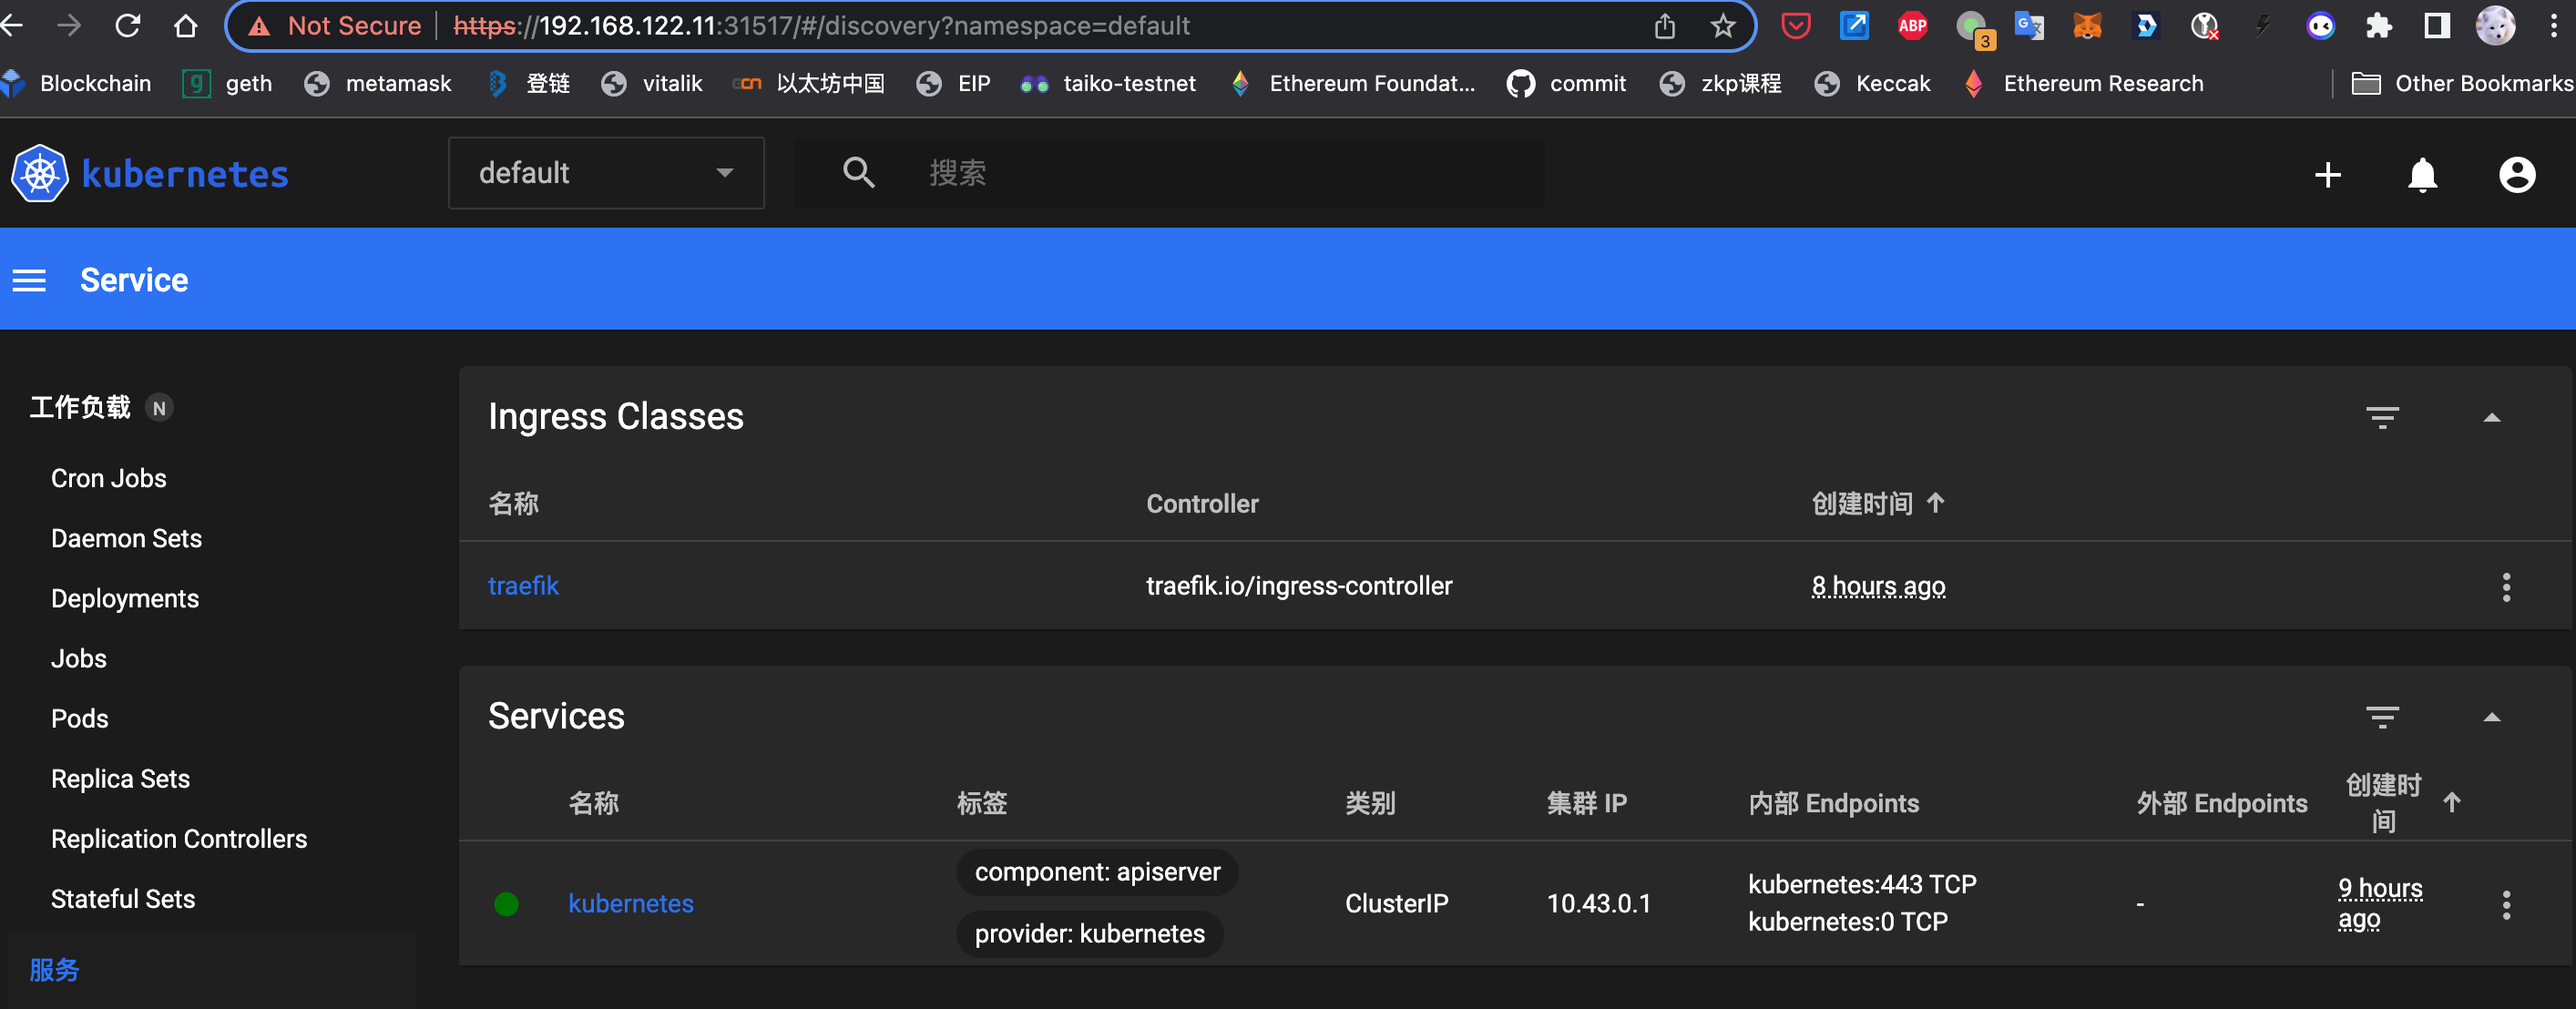
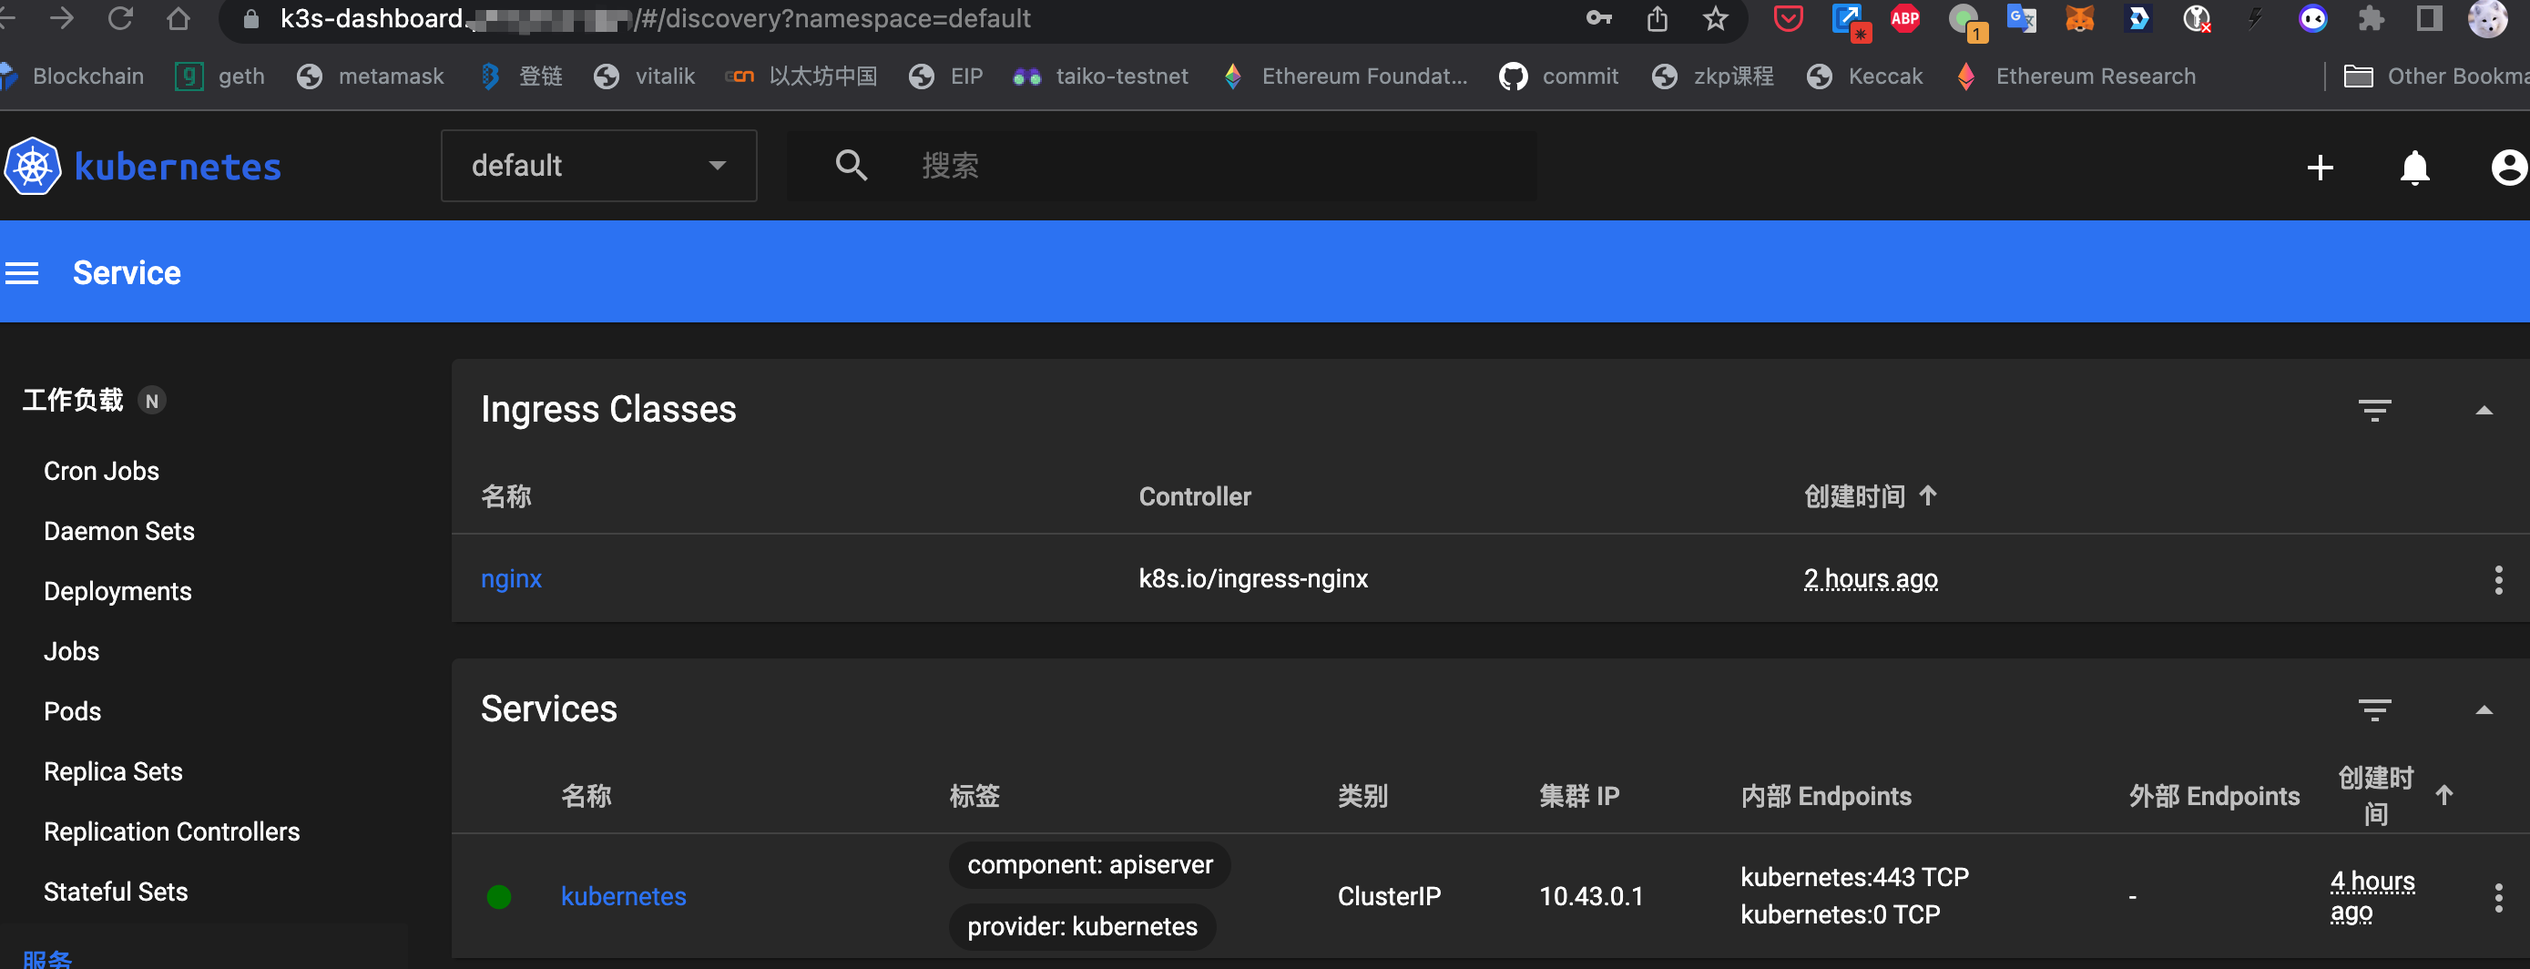
expose by ingress

diff --git a/content/post/k8s-dashboard/index.md b/content/post/k8s-dashboard/index.md
@@ -25,32 +25,41 @@ tags:
 sudo kubectl apply -f https://raw.githubusercontent.com/kubernetes/dashboard/v2.7.0/aio/deploy/recommended.yaml
 ```
 
-官方推荐使用[helm 部署](https://artifacthub.io/packages/helm/k8s-dashboard/kubernetes-dashboard)：
+官方推荐使用[helm 部署](https://artifacthub.io/packages/helm/k8s-dashboard/kubernetes-dashboard)。
 
 ### 运行状态
 
 ```shell
-sudo kubectl -n  kubernetes-dashboard get pods
+sudo kubectl -n kubernetes-dashboard get pods,svc
 
-NAME                                        READY   STATUS    RESTARTS   AGE
-dashboard-metrics-scraper-7bc864c59-rpzk7   1/1     Running   0          64s
-kubernetes-dashboard-6c7ccbcf87-nmnds       1/1     Running   0          64s
+NAME                                            READY   STATUS    RESTARTS   AGE
+pod/dashboard-metrics-scraper-7bc864c59-rpzk7   1/1     Running   0          107m
+pod/kubernetes-dashboard-6c7ccbcf87-nmnds       1/1     Running   0          107m
+
+NAME                                TYPE        CLUSTER-IP      EXTERNAL-IP   PORT(S)    AGE
+service/kubernetes-dashboard        ClusterIP   10.43.159.137   <none>        443/TCP    107m
+service/dashboard-metrics-scraper   ClusterIP   10.43.204.81    <none>        8000/TCP   107m
 ```
 
-## NodePort 访问
+## 集群外部访问
 
-默认 dashboard 只能在集群内部访问，为了在集群外部访问，需要将 service 从 ClusterIP 改为 NodePort，为此[编辑 kubernetes-dashboard service](https://github.com/kubernetes/dashboard/blob/master/docs/user/accessing-dashboard/README.md#nodeport)：
+默认 dashboard 只能在集群内部访问，有两种方法支持集群外部访问。
+
+### NodePort
+
+将 service 从 ClusterIP 改为 NodePort，为此[编辑 kubernetes-dashboard service](https://github.com/kubernetes/dashboard/blob/master/docs/user/accessing-dashboard/README.md#nodeport)：
 
 ```shell
 sudo kubectl -n kubernetes-dashboard edit service kubernetes-dashboard
 ```
 
-在服务对应的配置文件中，将 `type: ClusterIP` 修改为 `type: NodePort`，保存文件。
+在服务对应的配置文件中，将 `type: ClusterIP` 修改为 `type: NodePort`。
 
 查看部署状态
 
 ```shell
-kubectl get po,svc -n kubernetes-dashboard
+sudo kubectl -n kubernetes-dashboard get svc,pods
+
 NAME                                             READY   STATUS    RESTARTS         AGE
 pod/dashboard-metrics-scraper-5cb4f4bb9c-s7qn5   1/1     Running   99 (2m27s ago)   22h
 pod/kubernetes-dashboard-6967859bff-gndtg        1/1     Running   83 (2m27s ago)   22h
@@ -64,22 +73,79 @@ service/kubernetes-dashboard        NodePort    10.100.197.19    <none>        4
 
 ![dashboard login](images/token.png)
 
-## Ingress 访问
+### Ingress
 
-通过 ingress-nginx 配置访问：
+[Ingress](https://kubernetes.io/zh-cn/docs/concepts/services-networking/ingress/) 是对集群中服务的外部访问进行管理的 API 对象，典型的访问方式是 HTTP。可以提供负载均衡、SSL 终结和基于名称的虚拟托管。
 
 {{< gist phenix3443 459b9d083ac6fc0ea2967bdbac0bb1e0 >}}
 
-## 创建示例用户
+```shell
+sudo kubectl apply -f ingress.yaml
+echo "192.168.12.11 k3s" | sudo tee /etc/hosts
+```
 
-为了保护集群数据，默认情况下，Dashboard 会使用最少的 [RBAC](https://kubernetes.io/zh-cn/docs/reference/access-authn-authz/rbac/) 配置进行部署。我们知道：
+浏览器打开 `http://k3s` 也可以看到登录界面。
+
+#### TLS
+
+可以通过设定包含 TLS 私钥和证书的 Secret 来保护 Ingress。 Ingress 只支持单个 TLS 端口 443，并假定 TLS 连接终止于 Ingress 节点（与 Service 及其 Pod 之间的流量都以明文传输）。
+
+```shell
+sudo kubectl -n kubernetes-dashboard create secret tls kubernetes-dashboard-ingress-tls --key panghuli.tech.cf.key --cert panghuli.tech.cf.pem
+```
+
+{{< gist phenix3443 1b501124b31aff7e9e011e3a8d0f9b23 >}}
+
+```shell
+sudo kubectl apply -f ingress.yaml
+echo "192.168.12.11 k3s-dashboard.example.com" | sudo tee /etc/hosts
+```
+
+浏览器打开 `https://k3s-dashboard.example.com` 也可以看到登录界面。
+
+## 创建用户
+
+我们知道：
 
 - kubernetes 所有的资源都是通过 API 进行访问。
 - 命名空间下的所有资源都是通过 Role 进行授权访问的。
 
-所以 dashboard 需要 通过 apiserver 查询集群的所有信息，必然需要满足对应的[身份认证](https://kubernetes.io/zh-cn/docs/reference/access-authn-authz/authentication/)需求，这就涉及到了 [ServiceAccount](https://kubernetes.io/zh-cn/docs/reference/access-authn-authz/service-accounts-admin/) 相关知识。
+为了保护集群数据，默认情况下，Dashboard 会使用最少的 [RBAC](https://kubernetes.io/zh-cn/docs/reference/access-authn-authz/rbac/) 配置进行部署。
 
-按照[创建示例用户](https://github.com/kubernetes/dashboard/blob/master/docs/user/access-control/creating-sample-user.md) 为 dashboard service 创建管理员(admin-user)服务账户(ServiceAccount)，该服务账号通过 ClusterRoleBinding 到系统的 cluster-admin role 上，进而有权限可以管理集群所有资源。
+```shell
+sudo kubectl -n kubernetes-dashboard get role
+
+NAME                   CREATED AT
+kubernetes-dashboard   2023-06-27T05:25:31Z
+```
+
+可以看到默认只创建了 `kubernetes-dashboard` 这一个角色(role)，该角色也只能管理 kubernetes-dashboard 命名空间内的资源。
+
+```shell
+sudo kubectl -n kubernetes-dashboard describe role kubernetes-dashboard
+
+Name:         kubernetes-dashboard
+Labels:       k8s-app=kubernetes-dashboard
+Annotations:  <none>
+PolicyRule:
+  Resources       Non-Resource URLs  Resource Names                     Verbs
+  ---------       -----------------  --------------                     -----
+  secrets         []                 [kubernetes-dashboard-certs]       [get update delete]
+  secrets         []                 [kubernetes-dashboard-csrf]        [get update delete]
+  secrets         []                 [kubernetes-dashboard-key-holder]  [get update delete]
+  configmaps      []                 [kubernetes-dashboard-settings]    [get update]
+  services/proxy  []                 [dashboard-metrics-scraper]        [get]
+  services/proxy  []                 [heapster]                         [get]
+  services/proxy  []                 [http:dashboard-metrics-scraper]   [get]
+  services/proxy  []                 [http:heapster:]                   [get]
+  services/proxy  []                 [https:heapster:]                  [get]
+  services        []                 [dashboard-metrics-scraper]        [proxy]
+  services        []                 [heapster]                         [proxy]
+```
+
+如果 dashboard 需要通过 apiserver 管理集群就需要满足对应的[身份认证](https://kubernetes.io/zh-cn/docs/reference/access-authn-authz/authentication/)需求，这就涉及到了 [ServiceAccount](https://kubernetes.io/zh-cn/docs/reference/access-authn-authz/service-accounts-admin/) 相关知识。
+
+按照[创建示例用户](https://github.com/kubernetes/dashboard/blob/master/docs/user/access-control/creating-sample-user.md) 为 dashboard service 以服务账户(ServiceAccount)方式创建管理员(admin-user)，该服务账号通过 ClusterRoleBinding 到系统的 cluster-admin role 上，进而有权限可以管理集群所有资源。
 
 创建以下资源清单文件：
 
@@ -90,7 +156,7 @@ service/kubernetes-dashboard        NodePort    10.100.197.19    <none>        4
 部署 admin-user 配置：
 
 ```shell
-kubectl create -f dashboard.admin-user.yml -f dashboard.admin-user-role.yml
+kubectl create -f admin-user.yaml -f admin-user-bind.yaml
 ```
 
 当前，Dashboard 仅支持使用 Bearer 令牌登录。获取管理员令牌：
@@ -102,31 +168,3 @@ sudo kubectl -n kubernetes-dashboard create token admin-user
 在浏览器中输入产生的 token ，系统会认为是 admin-user 登录，进而可以操作集群。
 
 ![cluster info](images/cluster-info.png)
-
-## SSL 证书
-
-由于 dashboard 安装时默认生成了证书，所以需要先删除默认证书：
-
-```shell
-sudo kubectl -n kubernetes-dashboard get svc,pods
-```
-
-使用自己的证书重新生成：
-
-```shell
-sudo kubectl -n kubernetes-dashboard create secret tls kubernetes-dashboard-tls --key panghuli.tech.cf.key --cert panghuli.tech.cf.pem
-```
-
-## 域名访问
-
-通过 NodePort 部署的 service 最终映射到外部的 port 还是具有不确定性，如果手动指定又可能会产生冲突。解决这个问题就需要用到 [ingress](https://kubernetes.io/zh-cn/docs/concepts/services-networking/ingress/)。
-
-- k8s 需要先手动部署[ingress controller](https://kubernetes.io/zh-cn/docs/concepts/services-networking/ingress-controllers/)
-- k3s 默认安装了[traefik-ingress-controller](https://docs.k3s.io/zh/networking#traefik-ingress-controller)
-
-为 dashboard service 编写一个 ingress。
-
-## 参考
-
-- [a](https://cloudnative.to/blog/general-kubernetes-dashboard/)
-- [b](https://blog.51cto.com/u_1472521/50018740)
